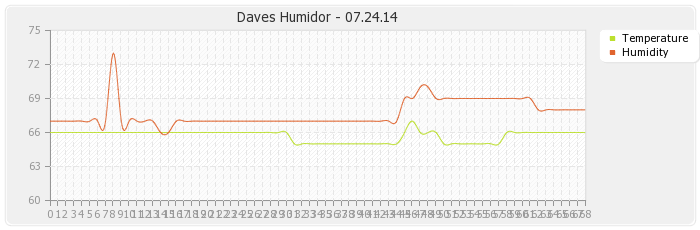
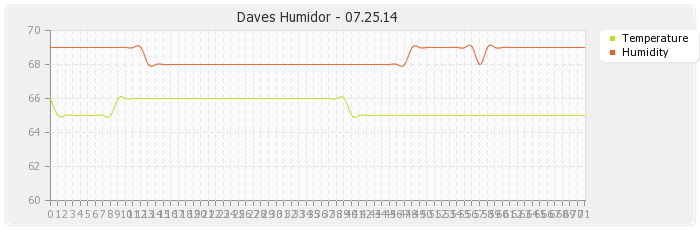
screenshot

diff --git a/web_root/lastReport.html b/web_root/lastReport.html
@@ -39,32 +39,32 @@
 	    			<table>
 	    				<tr class=bb>
 	    					<td width=120 align=left><font style='font-size:20px;color:blue'>Humidity:</font></td>
-	    					<td><font style='font-size:20px;color:blue'> &nbsp; 66</font></td>
+	    					<td><font style='font-size:20px;color:blue'> &nbsp; 69</font></td>
 	    				
 	    					<td width=60 &nbsp; </td>
 	    					
 	    					<td><font style='font-size:20px;color:blue'>Temperature:</font></td>
-	    					<td><font style='font-size:20px;color:blue'> &nbsp; 67</font></td>
+	    					<td><font style='font-size:20px;color:blue'> &nbsp; 66</font></td>
 	    				</tr>
 	    				
 	    				<tr>
 	    					<td>Hum low/high</td>
-	    					<td>66 &nbsp; / &nbsp; 73</td>
+	    					<td>68 &nbsp; / &nbsp; 69</td>
 	    				
 	    					<td width=60 &nbsp; </td>
 	    					
 	    					<td>Temp low/high</td>
-	    					<td>65 &nbsp; / &nbsp; 67</td>
+	    					<td>65 &nbsp; / &nbsp; 66</td>
 	    				</tr>
 	    				
 	    				<tr>
 	    					<td>Avg Humidity: </td>
-	    					<td>67.7</td>
+	    					<td>68.5</td>
 	    				
 	    					<td width=60 &nbsp; </td>
 	    					
 	    					<td>Avg Temperature: </td>
-	    					<td>65.7</td>
+	    					<td>65.4</td>
 	    				</tr>
 	    				
 	    				<tr>
@@ -74,12 +74,12 @@
 	    					<td width=60 &nbsp; </td>
 	    					
 	    					<td width=120 align=left>Records: </td>
-	    					<td>69</td>
+	    					<td>72</td>
 	    				</tr>
 	    				
 	    				<tr>
 	    					<td>Last Update: </td>
-	    					<td>5:50 pm - Thu 07.24.14</td>
+	    					<td>11:27 am - Fri 07.25.14</td>
 	    				 
 	    					<td width=60 &nbsp; </td>
 	    					

diff --git a/web_root/index.php b/web_root/index.php
@@ -132,12 +132,12 @@
 	    			<table>
 	    				<tr class=bb>
 	    					<td width=120 align=left><font style='font-size:20px;color:blue'>Humidity:</font></td>
-	    					<td><font style='font-size:20px;color:blue'> &nbsp; $t[0]</font></td>
+	    					<td><font style='font-size:20px;color:blue'> &nbsp; $h[0]</font></td>
 	    				
 	    					<td width=60 &nbsp; </td>
 	    					
 	    					<td><font style='font-size:20px;color:blue'>Temperature:</font></td>
-	    					<td><font style='font-size:20px;color:blue'> &nbsp; $h[0]</font></td>
+	    					<td><font style='font-size:20px;color:blue'> &nbsp; $t[0]</font></td>
 	    				</tr>
 	    				
 	    				<tr>
